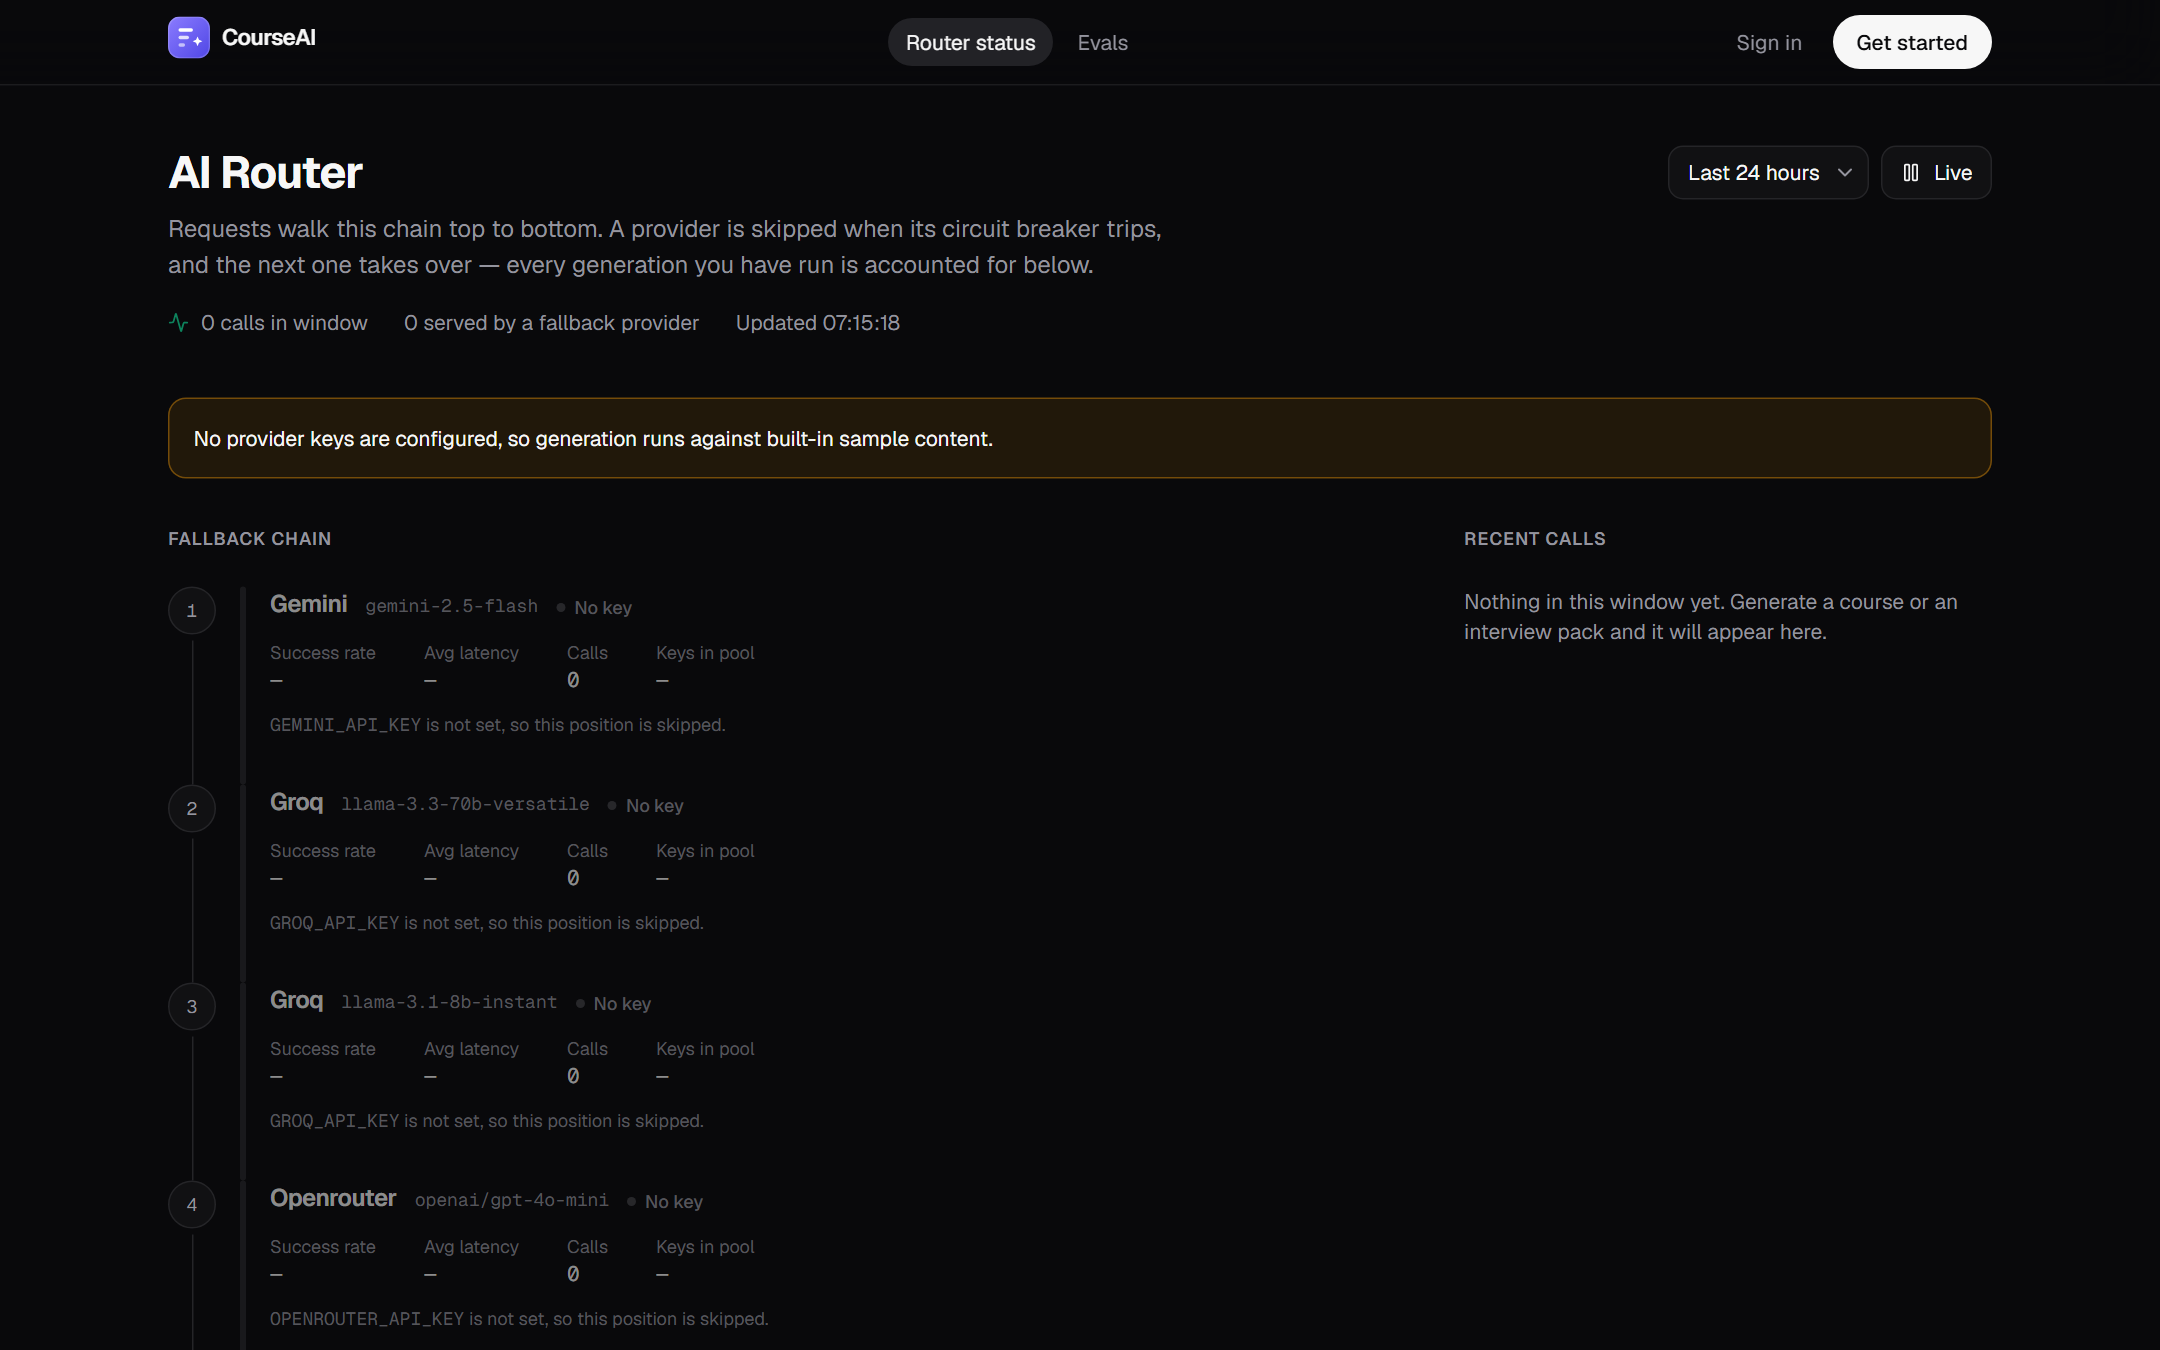
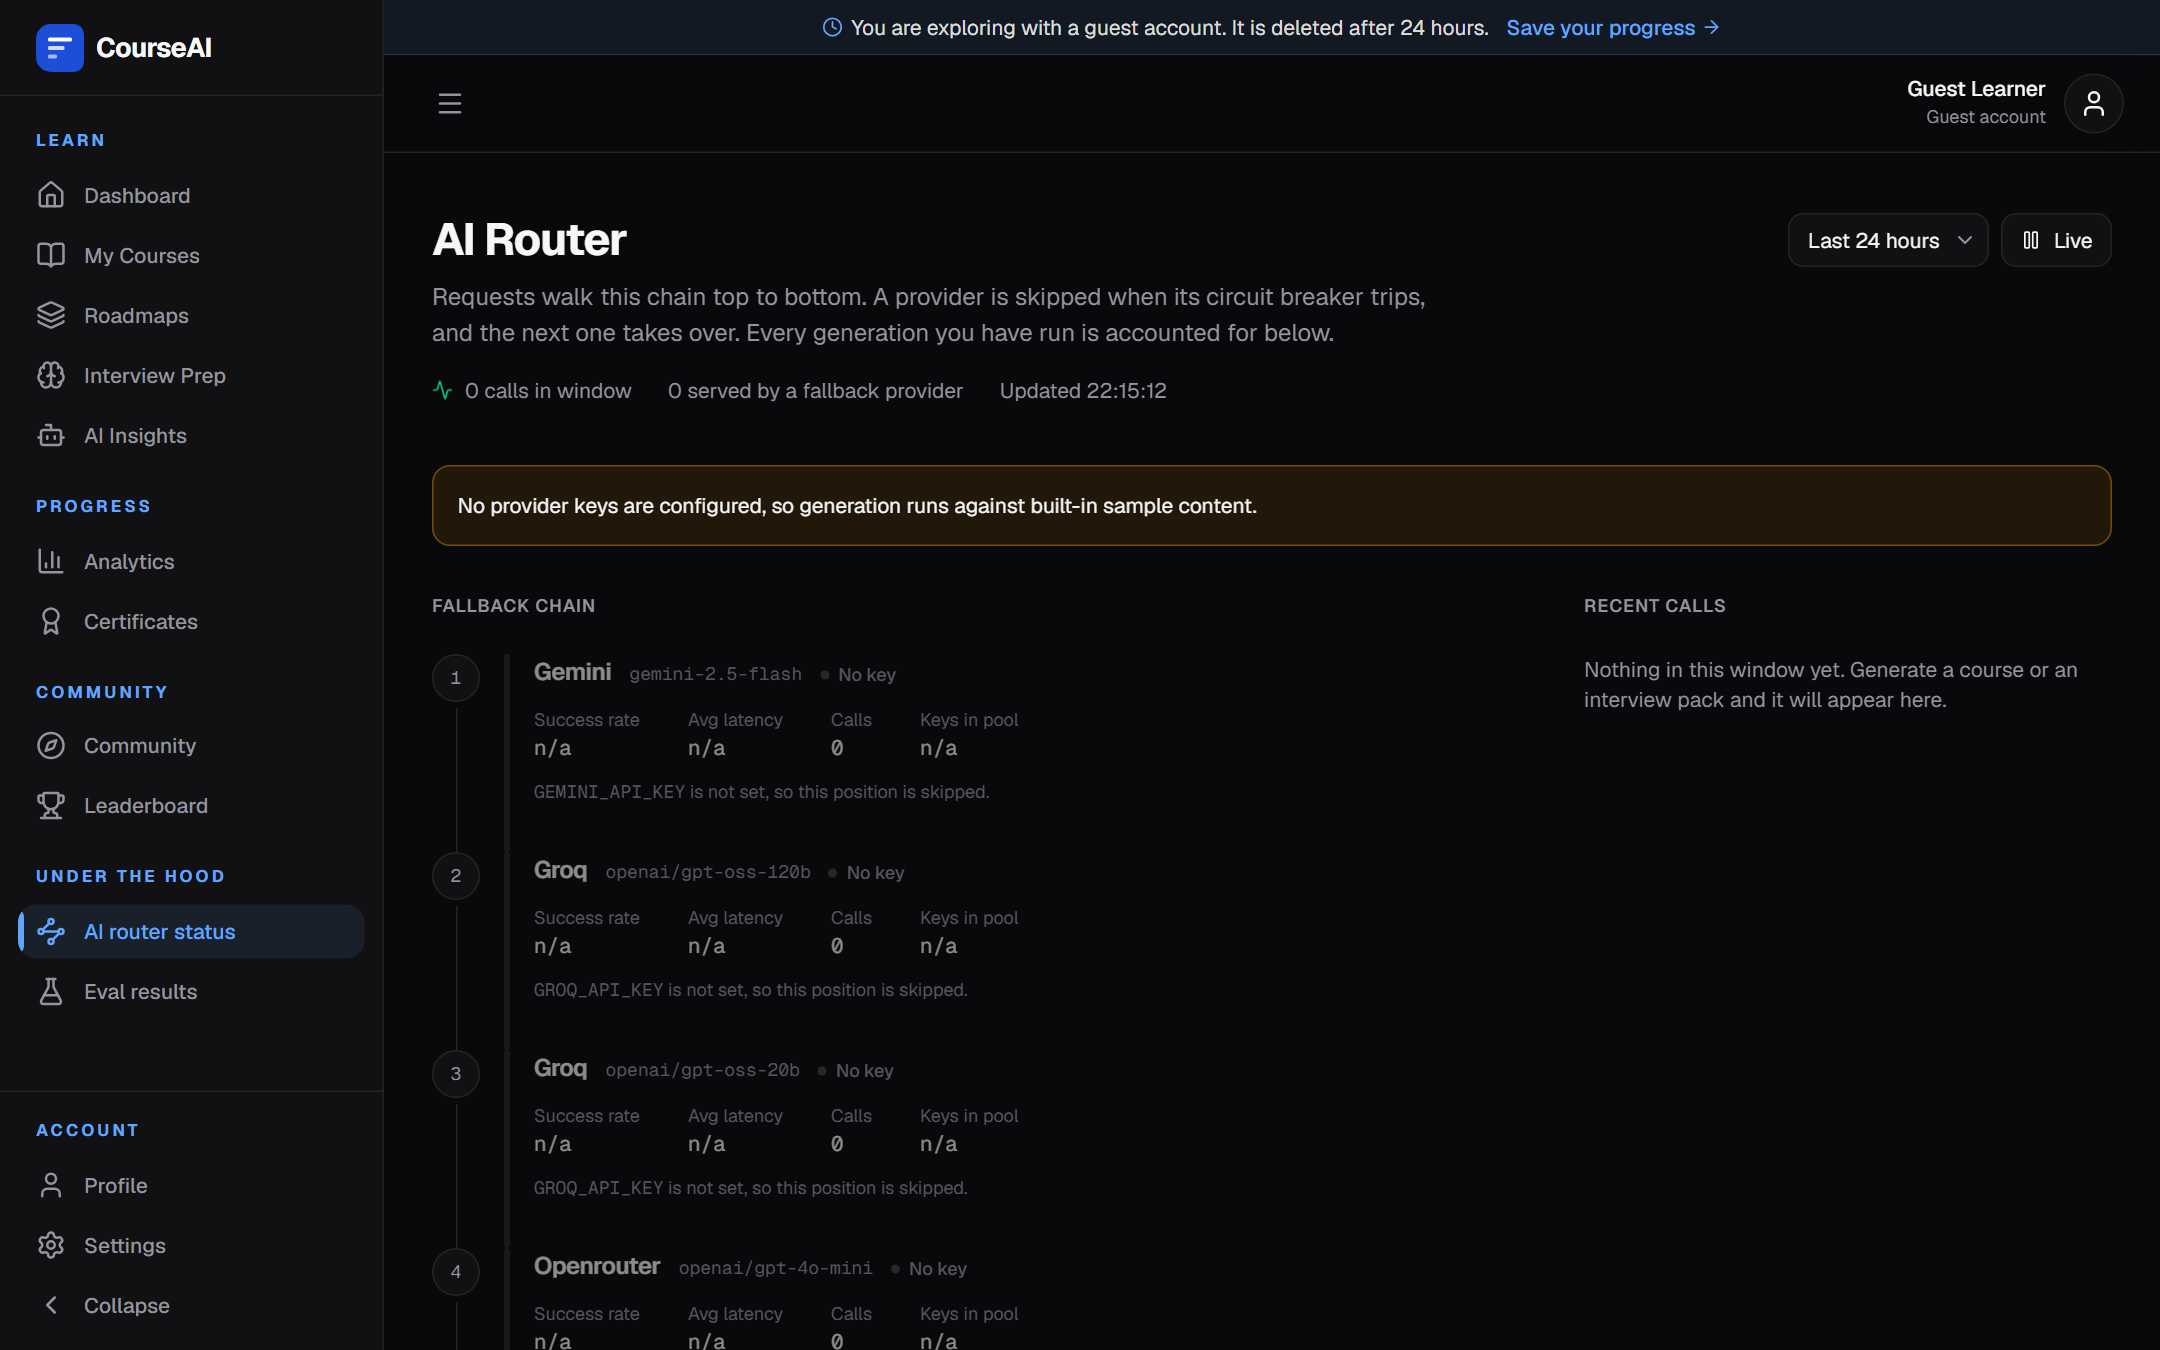
Update README and screenshots for the redesign
- Re-shot all six README screenshots against the current UI (they
  showed the old indigo logo and accents).
- Document the privacy and terms pages, the vendored Magic UI
  components and the lack of self-serve account deletion.
- Match the demo button label, drop the em dash in the title and move
  the live demo badge to the cobalt brand colour.

diff --git a/README.md b/README.md
@@ -2,11 +2,11 @@
 
 <img src="frontend/public/favicon.svg" width="56" alt="CourseAI logo" />
 
-# CourseAI — Smart Course Generator
+# CourseAI: Smart Course Generator
 
 **Turn one sentence into a structured course, streamed lesson by lesson, then learn it properly with quizzes, flashcards, a per-lesson tutor and scored mock interviews.**
 
-<a href="https://smart-course-generator.vercel.app/"><img src="https://img.shields.io/badge/Live_demo-no_sign--up-6d5dfc?style=for-the-badge" alt="Live demo" /></a>
+<a href="https://smart-course-generator.vercel.app/"><img src="https://img.shields.io/badge/Live_demo-no_sign--up-1D4ED8?style=for-the-badge" alt="Live demo" /></a>
 <a href="https://github.com/rahulpaul-07/smart-course-generator/actions/workflows/ci.yml"><img src="https://img.shields.io/github/actions/workflow/status/rahulpaul-07/smart-course-generator/ci.yml?style=for-the-badge&label=CI" alt="CI" /></a>
 <a href="https://github.com/rahulpaul-07/smart-course-generator/actions/workflows/codeql.yml"><img src="https://img.shields.io/github/actions/workflow/status/rahulpaul-07/smart-course-generator/codeql.yml?style=for-the-badge&label=CodeQL" alt="CodeQL" /></a>
 <img src="https://img.shields.io/badge/TypeScript-strict-3178C6?style=for-the-badge&logo=typescript&logoColor=white" alt="TypeScript strict" />
@@ -18,7 +18,7 @@
 
 </div>
 
-> **Try it in one click.** Hit *"Try the demo, no sign-up"* on the landing page for a private guest account with a sample course already in it. The API runs on Render's free tier, so the first request after idling can take ~30–60 s to wake up.
+> **Try it in one click.** Hit *"Try the demo without signing up"* on the landing page for a private guest account with a sample course already in it. The API runs on Render's free tier, so the first request after idling can take ~30–60 s to wake up.
 
 ---
 
@@ -45,6 +45,7 @@ Most "AI course generator" demos are a prompt and a text box. The hard part of a
 - **Progress & motivation.** Timezone-correct streaks, XP, achievements, a leaderboard (XP is idempotent, so it can't be farmed), analytics and certificates with a public verification page.
 - **Community.** Publish, upvote, rate and clone courses; public profiles; shareable read-only course links.
 - **Transparency pages.** Live router status (`/status`) and eval results (`/evals`) are public.
+- **Privacy and terms.** A [privacy policy](https://smart-course-generator.vercel.app/privacy) and [terms of use](https://smart-course-generator.vercel.app/terms) written against what the code actually stores, linked from sign-up and every public page.
 
 <table>
   <tr>
@@ -86,7 +87,7 @@ Frontend and backend deploy independently (Vercel + Render). Deeper dives: [syst
 
 ## Tech stack
 
-**Frontend** React 19, TypeScript (strict), Vite, Tailwind CSS, Radix UI, TanStack Query, Framer Motion · **Backend** Node 24 (22+), Express, MongoDB/Mongoose, Zod · **AI** Gemini, Groq, OpenRouter behind a custom router · **Quality** Jest + Supertest, Vitest + Testing Library, Playwright, ESLint, GitHub Actions, CodeQL, Dependabot
+**Frontend** React 19, TypeScript (strict), Vite, Tailwind CSS, Radix UI, TanStack Query, Framer Motion, and [Magic UI](https://magicui.design) components (Bento Grid, Animated Beam, Dot Pattern) vendored in `frontend/src/components/magicui` · **Backend** Node 24 (22+), Express, MongoDB/Mongoose, Zod · **AI** Gemini, Groq, OpenRouter behind a custom router · **Quality** Jest + Supertest, Vitest + Testing Library, Playwright, ESLint, GitHub Actions, CodeQL, Dependabot
 
 ## Run it locally in two commands
 
@@ -111,7 +112,7 @@ The web app calls the API on its own origin under `/api`; Vite proxies that to `
 | API unit | `npm run test:unit` (backend) | Router failover, circuit breaker, JSON repair, streaks, XP rules, SSE heartbeat. No DB, ~2 s. |
 | API integration | `npm run test:integration` | Supertest against in-memory MongoDB: auth, refresh rotation and reuse detection, authorization status codes, ObjectId validation, XP integrity, certificates, guest accounts, community. |
 | Coverage | `npm run test:coverage` (backend) | Both suites with a coverage floor that fails the build if coverage drops. |
-| UI | `npm test` (frontend) | Components, token refresh/retry, theme, pending-prompt handoff. |
+| UI | `npm test` (frontend) | Components, token refresh/retry, theme, pending-prompt handoff, legal pages. |
 | End-to-end | `npm run e2e` (frontend) | Playwright against the real API behind the same `/api` proxy and security headers as production: landing, auth and return-to-page, session refresh, guest journey through a lesson with no CSP violations, interview session, phone layouts of public and signed-in pages. |
 | Evals | `npm run eval` (backend) | Output contract in mock mode (CI); coverage and faithfulness scores with a provider key. |
 
@@ -133,6 +134,7 @@ Full guide: [`docs/deployment.md`](./docs/deployment.md).
 - The RAG corpus is a small demonstrator set; production would expand it and move to Atlas Vector Search.
 - The committed eval results are from mock mode, so they check the output contract, not content quality; run `npm run eval` with a key to record real numbers.
 - Password reset needs an email provider and isn't implemented; accounts can use Google or Auth0 instead.
+- There is no self-serve account deletion yet; the privacy policy explains how to request it by email.
 
 ## License
 
